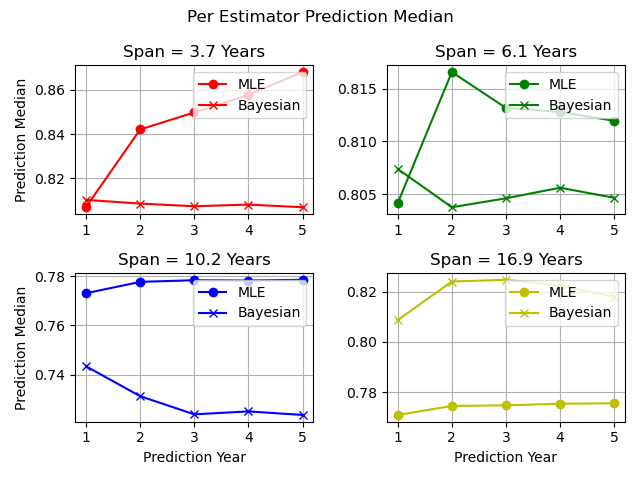
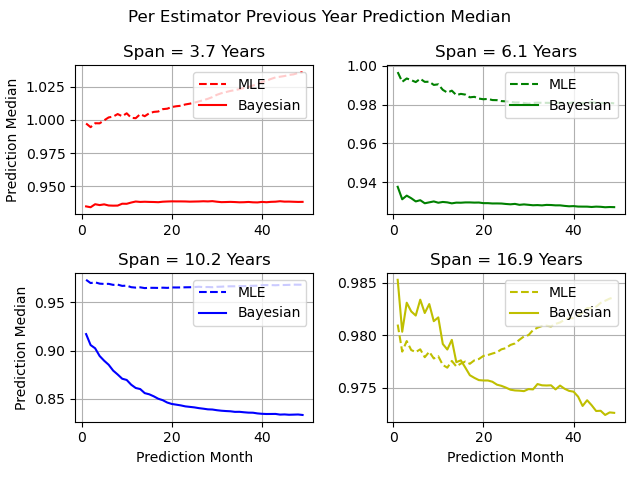
Switch to past year moving average when comparing predictions of the MLE and Bayesian models.

diff --git a/ARIMA/examples/__main__.py b/ARIMA/examples/__main__.py
@@ -28,21 +28,20 @@ print('Saved output file ' + output_file_name)
 
 plt.figure()
 colors = ['r', 'g', 'b', 'y']
-for name, plot_spec, example in [('MLE', 'o-', ARIMA.examples.mle),
-                                 ('Bayesian', 'x-', ARIMA.examples.bayesian)]:
+for name, plot_spec, example in [('MLE', '--', ARIMA.examples.mle),
+                                 ('Bayesian', '-', ARIMA.examples.bayesian)]:
     spans = np.array(example.ratios) * (max(example.year) - min(example.year))
-    for plot_num, (span, median, color) in enumerate(zip(spans, example.median, colors)):
+    for plot_num, (span, median, color) in enumerate(zip(spans, example.moving_sum_median, colors)):
         plt.subplot(2, 2, plot_num + 1)
-        end_of_year_median = median[11::12]
-        plt.plot(range(1, len(end_of_year_median) + 1), end_of_year_median, color + plot_spec, label=name)
+        plt.plot(range(1, len(median) + 1), median / 12, color + plot_spec, label=name)
         plt.title('Span = {:.1f} Years'.format(span))
         if plot_num in [2, 3]:
-            plt.xlabel('Prediction Year')
+            plt.xlabel('Prediction Month')
         if plot_num in [0, 2]:
             plt.ylabel('Prediction Median')
         plt.legend(loc='upper right')
         plt.grid(True)
-plt.suptitle('Per Estimator Prediction Median')
+plt.suptitle('Per Estimator Previous Year Prediction Median')
 plt.tight_layout()
 
 output_file_name = plots_dir + '/compare_example_median.png'

diff --git a/ARIMA/examples/bayesian.py b/ARIMA/examples/bayesian.py
@@ -13,7 +13,7 @@ from pyro.infer import WeighedPredictive, MHResampler
 from pyro.ops.stats import quantile, energy_score_empirical
 from ARIMA import BayesianARIMA
 from ARIMA.examples.cross_validation import cross_validation_folds
-from ARIMA.examples.utils import load_data, plots_dir, timeit
+from ARIMA.examples.utils import load_data, plots_dir, timeit, moving_sum
 from ARIMA.examples import __name__ as __examples__name__
 from torch.distributions.transforms import ExpTransform, AffineTransform
 
@@ -130,7 +130,7 @@ if __name__ == '__main__' or __examples__name__ == '__main__':
     cis = []
     one_year_mean_ci = []
     five_year_mean_ci = []
-    median = []
+    moving_sum_median = []
     for span, idx, model, sample, color in zip(spans, indices, models, samples, colors):
         cis.append(quantile(sample, confidence_interval))
         ci = cis[-1][..., model.predict_idx]
@@ -138,7 +138,7 @@ if __name__ == '__main__' or __examples__name__ == '__main__':
                          label='Bayesian Estimator at {:.1f} Years Observed Data Span at 90% CI'.format(span), color=color, alpha=0.5)
         one_year_mean_ci.append((ci[1]-ci[0])[:12].mean())
         five_year_mean_ci.append((ci[1]-ci[0]).mean())
-        median.append(quantile(sample, [0.5])[0, model.predict_idx])
+        moving_sum_median.append(quantile(moving_sum(sample[..., model.predict_idx], 12, 1), [0.5])[0])
 
     plt.xlabel('Year')
     plt.ylabel('Value')

diff --git a/ARIMA/examples/mle.py b/ARIMA/examples/mle.py
@@ -9,7 +9,7 @@ import matplotlib.pyplot as plt
 import torch as pt
 import numpy as np
 from ARIMA import ARIMA
-from ARIMA.examples.utils import load_data, plots_dir, timeit
+from ARIMA.examples.utils import load_data, plots_dir, timeit, moving_sum
 from ARIMA.examples import __name__ as __examples__name__
 from torch.distributions.transforms import ExpTransform
 from pyro.ops.stats import quantile
@@ -103,14 +103,14 @@ if __name__ == "__main__" or __examples__name__ == "__main__":
     cis = []
     one_year_mean_ci = []
     five_year_mean_ci = []
-    median = []
+    moving_sum_median = []
     for span, idx, sample, color in zip(spans, indices, samples, colors):
         cis.append(quantile(sample, confidence_interval).detach().numpy())
         plt.fill_between(samples_year, cis[-1][0], cis[-1][1],
                          label='MLE Estimator at {:.1f} Years Observed Data Span at 90% CI'.format(span), color=color, alpha=0.5)
         one_year_mean_ci.append((cis[-1][1]-cis[-1][0])[:12].mean())
         five_year_mean_ci.append((cis[-1][1]-cis[-1][0]).mean())
-        median.append(quantile(sample, [0.5])[0].detach().numpy())
+        moving_sum_median.append(quantile(moving_sum(sample, 12, 1), [0.5])[0].detach().numpy())
     
     plt.xlabel('Year')
     plt.ylabel('Value')
